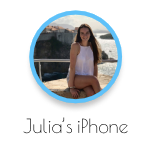
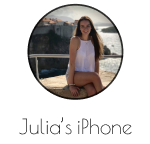
highlights different players whe nclickig on them

Changed region(s): [[0.16, 0.0, 0.8267, 0.75], [0.1067, 0.8056, 0.88, 0.9444], [0.2667, 0.3056, 0.2933, 0.3333]]

diff --git a/enLIGHTen/screens/QuestionsScreen.js b/enLIGHTen/screens/QuestionsScreen.js
@@ -18,7 +18,9 @@ var HashMap = require('hashmap');
 import HelpButton from '../components/HelpButton';
 
 const allPlayers = [
-  {name: "Julia", image: require("../assets/juliasIphone.png")}, {name: "Cate", image: require("../assets/catesIphone.png")}, 
+  {name: "Julia", image: require("../assets/juliasIphone.png"), highlightedImage: require("../assets/juliasIphoneHighlighted.png")},
+  {name: "Cate", image: require("../assets/catesIphone.png"), highlightedImage: require("../assets/catesIphoneHighlighted.png")},
+  {name: "Sachi", image: require("../assets/sachisIphone.png"), highlightedImage: require("../assets/sachisIphoneHighlighted.png")},
 ]
 const statics = {
     acedemic: ["Is what we perceive reality or just a construct of our minds? Can our minds correctly interpret reality, or is it subjective?", "What is the purpose of art?", "What is the best way to explore human nature: psychology, philosophy, or biology?", "“Clear thinking requires courage rather than intelligence.” - Thomas Szasz. What do you think he’s saying? Do you agree?", "Did humans invent math, or did we discover it?", "What do you think are the benefits of capitalism? What are the downsides?", "Is what we perceive reality or just a construct of our minds? Can our minds correctly interpret reality, or is it subjective?" ],
@@ -32,11 +34,12 @@ function Players(props) {
   const content = currPlayers.map((player) =>
     <View key={player.name}>
     <TouchableOpacity onPress={() => {
+        props.func(player)
       }}>
       <Image style={styles.playerIconStyle}
-        source={
-          player.image
-        }/>
+  source={(props.highlightedPlayer == player.name)
+        ? player.highlightedImage
+        : player.image} />
     </TouchableOpacity>
     </View>
   );
@@ -51,6 +54,21 @@ export default class QuestionsScreen extends React.Component {
 
   constructor(props) {
     super(props);
+    this._nextQuestion = this._nextQuestion.bind(this);
+    const category = this.props.navigation.state.params.category;
+    const mode = this.props.navigation.state.params.mode;
+    const playersOutOfGame = this.props.navigation.state.params.playersOutOfGame;
+    const playersInGame = this.props.navigation.state.params.playersInGame;
+    const highlightedPlayer = this.props.navigation.state.params.highlightedPlayer;
+    console.log(highlightedPlayer);
+    var map = new HashMap();
+    map.set("acedemic", statics.acedemic);
+    map.set("people", statics.people);
+    map.set("funny", statics.funnyStuff);
+    map.set("surprise", statics.surprise);
+    var questions = map.get(category);
+    var nextQuestion = questions[Math.floor(Math.random()*questions.length)];
+    this.state = { question: nextQuestion, category: category, mode: mode, map: map, playersInGame: playersInGame, playersOutOfGame: playersOutOfGame, highlightedPlayer: highlightedPlayer };
   }
 
   _nextQuestion() {
@@ -61,14 +79,22 @@ export default class QuestionsScreen extends React.Component {
     this.setState(previousState => ({ question : nextQuestion}));
   }
 
+  _highlightPlayer(player) {
+    console.log("setting state: " + player.name)
+    this.setState(prevState => ({
+      highlightedPlayer: player.name
+    }));
+  }
+
   render() {
     const navigation = this.props.navigation;
-        this._nextQuestion = this._nextQuestion.bind(this);
+    this._nextQuestion = this._nextQuestion.bind(this);
     const category = this.props.navigation.state.params.category;
     const mode = this.props.navigation.state.params.mode;
     const playersOutOfGame = this.props.navigation.state.params.playersOutOfGame;
     const playersInGame = this.props.navigation.state.params.playersInGame;
-    console.log(playersInGame);
+    const highlightedPlayer = (this.state.highlightedPlayer != null) ? this.state.highlightedPlayer : this.props.navigation.state.params.highlightedPlayer;
+    console.log(highlightedPlayer);
     var map = new HashMap();
     map.set("acedemic", statics.acedemic);
     map.set("people", statics.people);
@@ -76,7 +102,7 @@ export default class QuestionsScreen extends React.Component {
     map.set("surprise", statics.surprise);
     var questions = map.get(category);
     var nextQuestion = questions[Math.floor(Math.random()*questions.length)];
-    this.state = { question: nextQuestion, category: category, mode: mode, map: map, playersInGame: playersInGame, playersOutOfGame: playersOutOfGame };
+    this.state = { question: nextQuestion, category: category, mode: mode, map: map, playersInGame: playersInGame, playersOutOfGame: playersOutOfGame, highlightedPlayer: highlightedPlayer };
     return (
       <View style={styles.container}>
            <View style={styles.welcomeContainer}>
@@ -93,7 +119,7 @@ export default class QuestionsScreen extends React.Component {
                     require("../assets/addPlayersButton.png")
               }/>
               </TouchableOpacity>
-              <Players playersInGame={this.state.playersInGame}/>
+              <Players func={this._highlightPlayer.bind(this)} playersInGame={this.state.playersInGame} highlightedPlayer={this.state.highlightedPlayer}/>
               <View style={styles.questionsContainer}><Text style={styles.text}>{this.state.question}</Text></View>
               <TouchableOpacity style={styles.nextContainer} onPress={this._nextQuestion}>
                 <Image style={styles.nextImageStyle}

diff --git a/enLIGHTen/screens/AddPlayersScreen.js b/enLIGHTen/screens/AddPlayersScreen.js
@@ -18,7 +18,9 @@ var HashMap = require('hashmap');
 import HelpButton from '../components/HelpButton';
 
 const allPlayers = [
-  {name: "Julia", image: require("../assets/juliasIphone.png")}, {name: "Cate", image: require("../assets/catesIphone.png")}, 
+  {name: "Julia", image: require("../assets/juliasIphone.png"), highlightedImage: require("../assets/juliasIphoneHighlighted.png")},
+  {name: "Cate", image: require("../assets/catesIphone.png"), highlightedImage: require("../assets/catesIphoneHighlighted.png")},
+  {name: "Sachi", image: require("../assets/sachisIphone.png"), highlightedImage: require("../assets/sachisIphoneHighlighted.png")},
 ]
 
 function Players(props) {

diff --git a/enLIGHTen/screens/VibeScreen.js b/enLIGHTen/screens/VibeScreen.js
@@ -40,7 +40,7 @@ export default class VibeScreen extends React.Component {
           thumbTintColor="white"/>
       </View>
       <TouchableOpacity onPress={() => {
-              this.props.navigation.navigate('Questions', {mode: mode, category: category, playersInGame:[], playersOutOfGame:["Julia", "Cate"]})
+              this.props.navigation.navigate('Questions', {mode: mode, category: category, playersInGame:["Sachi"], playersOutOfGame:["Julia", "Cate"], highlightedPlayer: "Sachi"})
             }}>
             <Image style={{height: 20, width: 50, marginLeft: 335, marginBottom: 73}}
               source={
